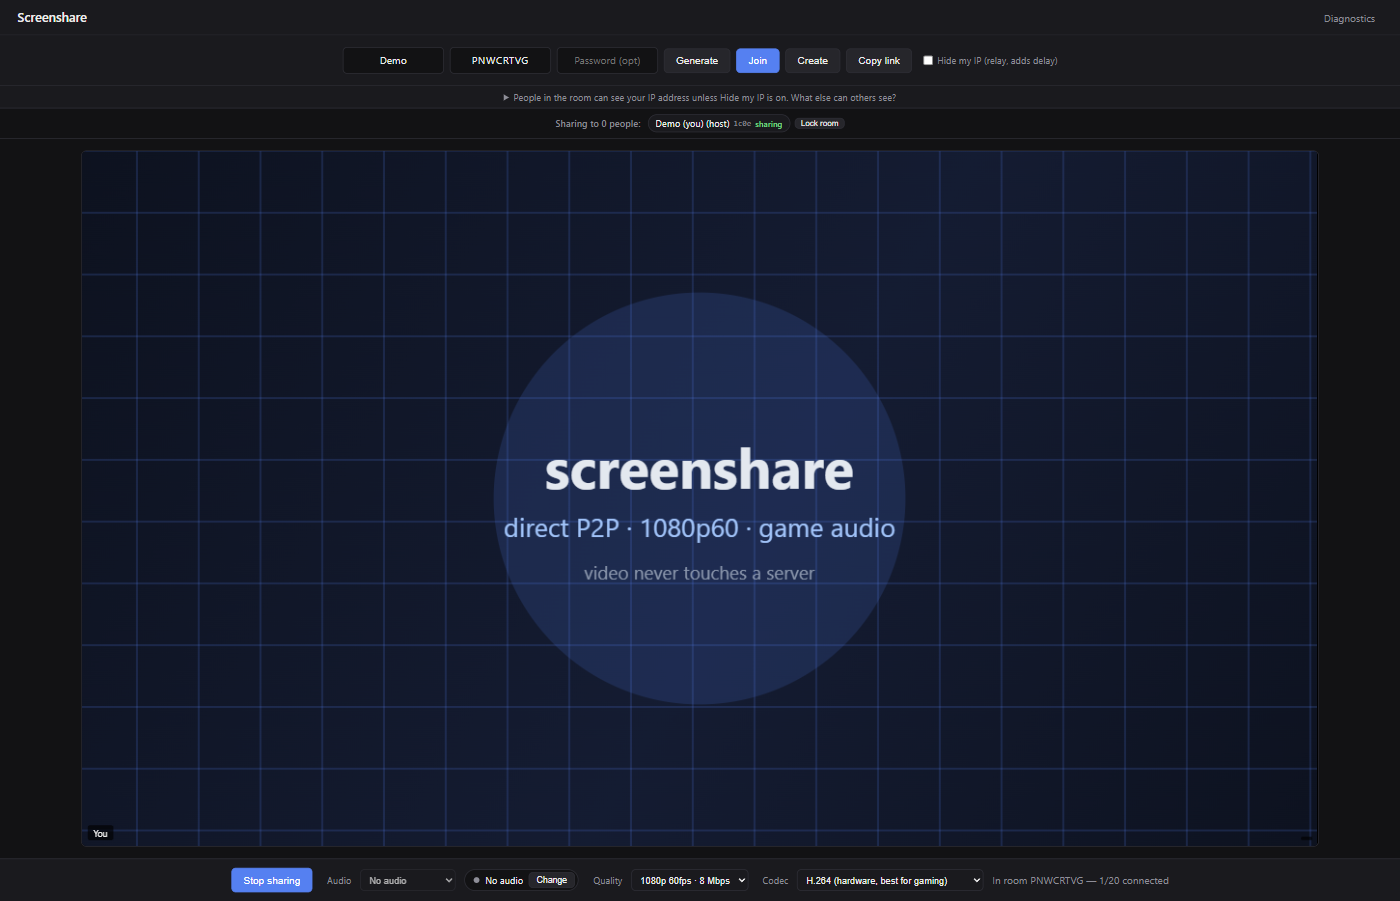
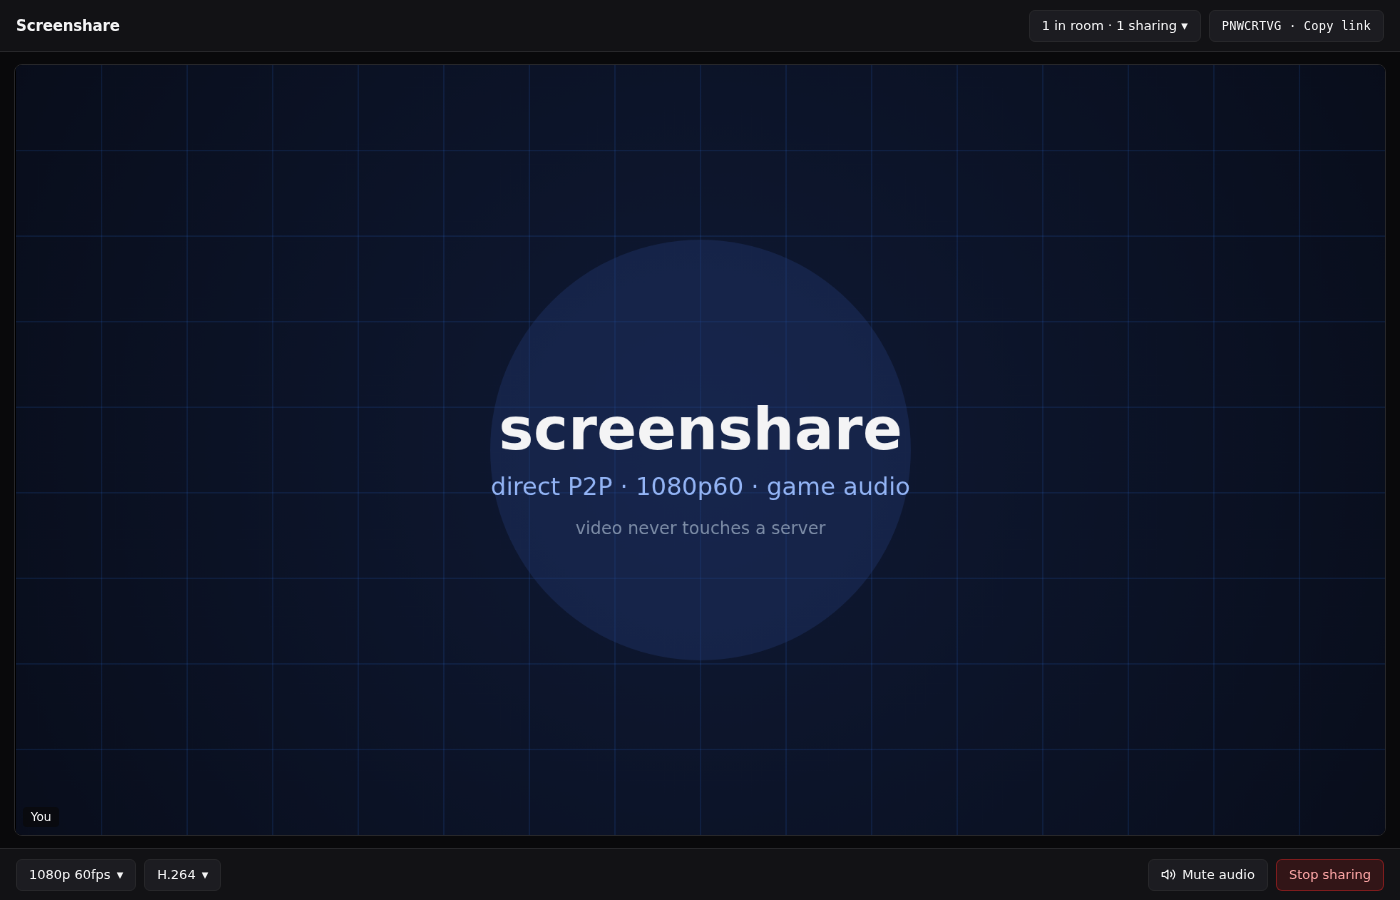
docs: update README, CodeRabbit config, and screenshot for current UI and architecture (#35)

diff --git a/README.md b/README.md
@@ -1,10 +1,11 @@
 # screenshare
 
-Low-latency screen sharing for a small group of friends. One or more people share a
-screen with game audio; everyone else watches. Rooms hold up to 20 people.
+Low-latency screen sharing for a small group of friends, in the browser or the Windows
+desktop app. One or more people share a screen with game audio; everyone else watches.
+Rooms hold up to 20 people.
 
 **Video never touches a server.** The Worker coordinates a few KB of signalling and then goes
-quiet; media flows directly browser-to-browser via WebRTC.
+quiet; media flows directly peer-to-peer via WebRTC.
 
 [![The room view with an active share](assets/screenshot.png)](https://screenshare.webmikas.com)
 
@@ -12,75 +13,119 @@ quiet; media flows directly browser-to-browser via WebRTC.
 
 ## Requirements
 
-- Chrome or Edge on desktop. Only Chromium captures system/game audio and exposes the
-  encoder controls the app depends on.
-- Game-only audio needs Chrome or Edge 141+ (`windowAudio`).
-- macOS Chrome captures tab audio only; Linux/Wayland has similar limits. Screen sharing
-  works, system audio does not.
+- **Web:** Chrome or Edge on desktop. Only Chromium captures system/game audio and exposes
+  the encoder controls (`degradationPreference: "maintain-framerate"`, `jitterBufferTarget`,
+  codec preferences) the app depends on.
+- **Per-window audio on the web** needs Chrome or Edge 141+ (`windowAudio: "window"`).
+- **macOS & Linux:** macOS Chrome captures tab audio only; Linux/Wayland has similar
+  limits. Screen sharing works, system audio does not.
+- **Desktop app (Windows):** Captures per-window process-tree audio or system audio via
+  WASAPI loopback (`loopback-capture` + `koffi`), and automatically follows supported
+  multi-window games (such as League of Legends) between lobby and match windows.
 
 ## Quick start
 
 ```bash
-nix develop        # Node 22, patchelf, Chromium (optional)
-npm install        # patches workerd for NixOS
-npm run dev        # frontend only
-npm run preview    # built assets + Worker via wrangler dev
+nix develop             # Node 22, patchelf, Chromium, gh (optional)
+npm install             # installs dependencies; patches workerd on NixOS
+npm run dev             # frontend dev server (Vite)
+npm run preview         # built assets + Worker/RoomDO via wrangler dev
+
+# Desktop app (Electron)
+npm run electron:dev    # Vite dev server + Electron app
+npm run electron:start  # built assets + Electron app
+npm run electron:build  # Windows NSIS installer + portable exe in release/
 ```
 
 ## How it works
 
 ```
-Browser A ──┐                                    ┌── Browser B
-            │  WebSocket (signalling only)       │
-            └──►  Worker ──► RoomDO (per room) ◄─┘
+Peer A ──┐                                    ┌── Peer B
+         │  WebSocket (signalling only)       │
+         └──►  Worker ──► RoomDO (per room) ◄─┘
 
-Browser A ═══════════ SRTP media, peer-to-peer ═══════════ Browser B
+Peer A ═════════ SRTP media + control DC, peer-to-peer ═════════ Peer B
 ```
 
-- **Worker** (`worker/index.ts`) serves the frontend, hands out room codes at
-  `/api/room`, and routes `/ws/:code` to a per-room Durable Object.
-- **RoomDO** (`worker/room.ts`) coordinates signalling, membership and room state. It never
-  parses SDP or sees media.
-- **Frontend** (`src/`) does capture, encoding, the partial mesh, and per-peer bitrate
-  adaptation. Viewers connect only to sharers, never to each other.
+- **Worker** (`worker/index.ts`, `worker/ratelimit.ts`, `worker/ipkey.ts`,
+  `worker/upgrade.ts`) serves the frontend with strict security headers (CSP with
+  `require-trusted-types-for 'script'` and `trusted-types 'none'`), hands out 8-character
+  room codes at `/api/room`, and routes `/ws/:code` to a per-room Durable Object behind
+  per-IP rate limits (keyed by IPv4 address or IPv6 `/64`).
+- **RoomDO** (`worker/room.ts`) coordinates WebSocket Hibernation signalling, room
+  membership, in-place session resumption, and host moderation. It never parses SDP or sees
+  media.
+- **Shared protocol** (`shared/protocol.ts`) validates room codes and all client/server
+  WebSocket and P2P control messages at runtime with Zod (in `jitless` mode for Trusted
+  Types CSP compatibility).
+- **Frontend** (`src/`) handles capture (`src/capture.ts`), encoder/decoder tuning and
+  per-peer bitrate adaptation (`src/quality.ts`), the partial WebRTC mesh with perfect
+  negotiation and send-side pausing (`src/mesh.ts`), WebSocket reconnection
+  (`src/signaling.ts`), `getStats()` link health (`src/stats.ts`), and pure UI state
+  (`src/ui-model.ts`). Viewers connect only to sharers, never to each other.
+- **Desktop app** (`electron/`, `src/platform/`) loads the hosted web app so desktop and
+  browser users share rooms, adding a native window/screen picker (`electron/picker.ts`),
+  WASAPI process-tree and system audio capture (`electron/audio/`,
+  `src/platform/pcm-audio.ts`), and automatic lobby-to-match window following
+  (`electron/follow/`).
 
 ## Privacy
 
-- **Peer-to-peer connections** are direct between browsers using STUN for NAT traversal.
-  People in the room you connect with can see your IP address.
-- **Room passwords** are optional and set by the room's creator, who becomes the host.
-  The host can remove people or lock the room; bans, locks and rejoin tickets are
-  enforced by the Durable Object.
-- **The server sees** your IP, the room code and your name while you are connected. A
-  room's password and settings are erased 12 hours after it empties.
+- **Peer-to-peer connections** are direct between peers using STUN
+  (`stun:stun.cloudflare.com:3478`) for NAT traversal. Connections are opened only when at
+  least one side is sharing; people in the room you connect with can see your IP address.
+- **Host controls:** The join that creates a room becomes its host (`hostToken`). The host
+  can remove people (revoking their rejoin ticket and banning their IPv4 address or IPv6
+  `/64` for 15 minutes) or lock the room to new joins. Members receive a `rejoinToken` on
+  welcome to resume in place on reconnect or rejoin past a lock; if the host leaves a
+  locked room for 5 minutes, it unlocks automatically.
+- **The server sees** your IP, the room code and your display name while you are connected.
+  Room state and tokens are erased 12 hours after the room empties.
 
 Known limitations and open defects are tracked in
 [Issues](https://github.com/mikaelsouza/screenshare/issues).
 
-## Audio
+## Audio & stream controls
 
 Screen and window sharing always enables Chrome's native audio toggle: per-application
 audio on the **Window** tab (`windowAudio: "window"`) and system audio (excluding this
-browser's own playback via `restrictOwnAudio: true`) on the **Entire Screen** tab. In the
-desktop app, WASAPI captures the shared window's process tree (following games between
-lobby and match windows) or system audio excluding the app itself. While streaming, the
-**Mute audio** button next to **Stop sharing** mutes or unmutes your outbound audio track
-in place.
+browser's own playback via `restrictOwnAudio: true`) on the **Entire Screen** tab. Voice
+DSP (`echoCancellation`, `noiseSuppression`, `autoGainControl`) is disabled and Opus is
+configured for 48 kHz stereo at 256 kbps (`usedtx=0`). In the desktop app, WASAPI captures
+the shared window's process tree (following games between lobby and match windows) or
+system audio excluding the app itself. While streaming, the **Mute audio** button next to
+**Stop sharing** mutes or unmutes your outbound audio track in place.
+
+Sharers can switch quality presets (`1080p60` at 8 Mbps default, `1080p30` at 6 Mbps,
+`720p60` at 6 Mbps, `720p30` at 4 Mbps) and video codecs (`H.264` default, `VP9`, `AV1`,
+`VP8`) live without stopping the share, toggle their local preview tile, and view
+per-viewer outbound bitrates in the room roster. Viewers get per-tile pause (which stops
+the sharer's outbound video encoder for that link via a P2P data channel, alongside
+automatic off-screen `IntersectionObserver` pausing), mute, volume boost up to 200% via
+Web Audio (`GainNode` + `DynamicsCompressorNode`), Fit/Fill sizing, Focus (pin/spotlight),
+Picture-in-Picture, live stats, and fullscreen controls.
 
 ## Deploy
 
 1. Set the custom domain in `routes` in `wrangler.jsonc` (replace the `<tld>` placeholder).
-2. Push to `main`. CI runs the checks and deploys with `cloudflare/wrangler-action`;
+2. Push to `main`. `.github/workflows/deploy.yml` verifies that both `CI` and `CodeQL`
+   succeeded for the commit and deploys with `cloudflare/wrangler-action`;
    `npm run deploy` builds and deploys locally without running any checks.
 
 ## Development
 
 ```bash
-npm run check        # typecheck client + worker
-npm run test:unit    # pure logic (protocol, SDP, stats, limits)
-npm run test:worker  # RoomDO in real workerd
-npm run test:e2e     # Chromium peers: p2p, edge cases
-npm test             # check + unit + worker
+npm run check           # typecheck client, worker, and electron (TypeScript 7)
+npm run lint:all        # dead-code & cycle check (knip) + type-aware lint (oxlint)
+npm run test:unit       # unit tests (protocol, mesh, quality, capture, audio, follow, UI)
+npm run test:worker     # RoomDO in real workerd (@cloudflare/vitest-plugin)
+npm run test:formal     # formal state-machine & rate-limit invariant tests
+npm run test:fuzz       # fast-check property and fuzz tests
+npm run test:mutate     # Stryker mutation testing
+npm run test:e2e        # Playwright Chromium peers: P2P media and edge cases
+npm run electron:smoke  # Playwright smoke test for the Electron app
+npm test                # check + lint:all + test:unit + test:worker
+npm run test:all        # test + test:formal + test:fuzz + test:e2e
 ```
 
 Set `CHROMIUM_BIN` if you are not inside `nix develop`.
